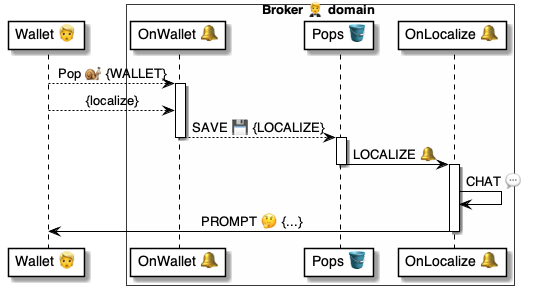
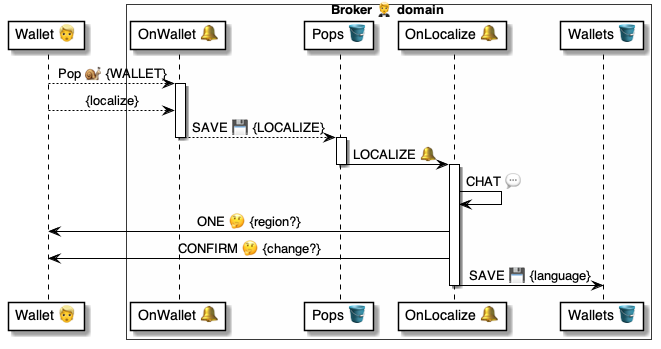
.

Changed region(s): [[0.0, 0.0, 0.9906, 0.9763], [0.0901, 0.3661, 0.1201, 0.3966]]

diff --git a/4 ⚙ Solution/20 🧑🦰 UI/Brokers 🤵/🤵🪣 Broker tables/Pops 🎈 table/🪣🔔 22 Wallet » Localize/🤵 OnPopLocalize 📃 handler.md b/4 ⚙ Solution/20 🧑🦰 UI/Brokers 🤵/🤵🪣 Broker tables/Pops 🎈 table/🪣🔔 22 Wallet » Localize/🤵 OnPopLocalize 📃 handler.md
@@ -19,16 +19,44 @@
 # Load the chat
 - CHAT|$Pop.Chat
 
-# Prompt the user for options
-- ONE|What do you need? >> $option:
+# Prompt the user for the region
+- ONE|To what region? >> $lang:
     Options:
-        - 🈯 Set /language
+        - ID: pt-pt
+          Title: 🇵🇹 Portugal
+        - ID: pt-br
+          Title: 🇧🇷 Brazil
+
+# Remember the previous region for undo
+- PUT|$Pop.Wallet.Language >> $prevLang
+
+# Ignore if already on that language
+- IF|$prevLang == $lang.ID:
+    - SUCCESS|Already set to {$lang.Title}!
+    - RETURN
+
+# Confirm before changing
+- CONFIRM|Set to {$lang.Title}?
 
 # Process the user's option
-- CASE|$option:
-    /language: 
-        SAVE|$Pop:
-            .State: LOCALIZE
+- SAVE|$Pop.Wallet:
+    Language: $lang
+
+# Inform success, but allow an undo
+- SUCCESS|Done! >> $success:
+    Options: 
+        - ↩ /Undo set region
+
+# Process undo request
+- CASE|$success:
+    Undo: 
+    
+        # Save back the previous language
+        - SAVE|$Pop.Wallet:
+            Language: $prevLang
+
+        # Inform success of reversal
+        - SUCCESS|Region reverted.
 ```
 
 Uses||

diff --git a/4 ⚙ Solution/20 🧑🦰 UI/Brokers 🤵/🤵🪣 Broker tables/Pops 🎈 table/🪣🔔 21 Wallet/🤵 OnPopWallet 📃 handler.md b/4 ⚙ Solution/20 🧑🦰 UI/Brokers 🤵/🤵🪣 Broker tables/Pops 🎈 table/🪣🔔 21 Wallet/🤵 OnPopWallet 📃 handler.md
@@ -1,7 +1,7 @@
 # 🤵 OnPopWallet 📃 handler
 
 > Purpose
-* [Script 📃](<../../../../../35 💬 Chats/Scripts 📃/Script 📃.md>) that reacts to a Pop in a [Wallet 🧑🦰 app](<🧑🦰 Wallet 🛠 app.md>).
+* [Script 📃](<../../../../../35 💬 Chats/Scripts 📃/Script 📃.md>) that reacts to a Pop in a [Wallet 🧑🦰 app](<../../../../Wallets 🧑🦰/🧑🦰 Wallet app/🧑🦰 Wallet 🛠 app.md>).
 
 <br/>
 
@@ -22,11 +22,11 @@
 # Prompt the user for options
 - ONE|What do you need? >> $option:
     Options:
-        - 🈯 Set /language
+        - 🈯 Set /region
 
 # Process the user's option
 - CASE|$option:
-    /language: 
+    region: 
         SAVE|$Pop:
             .State: LOCALIZE
 ```
